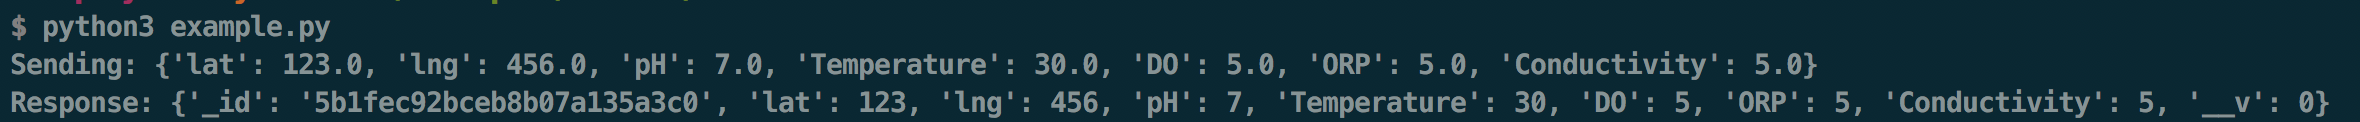
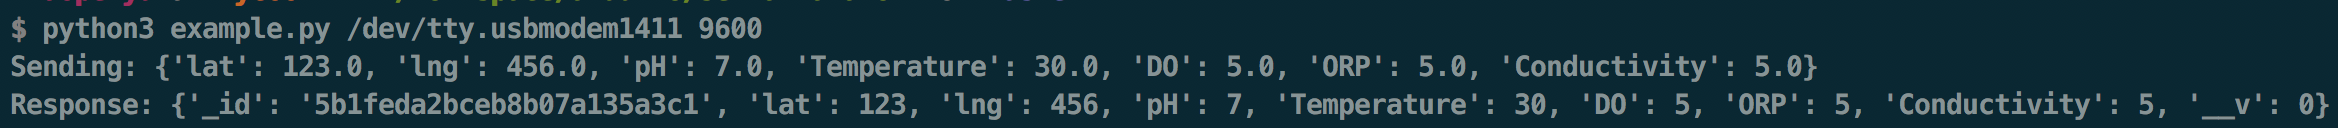
Accept ports & baudrate as arguments

diff --git a/SerialDataToDB/example.py b/SerialDataToDB/example.py
@@ -1,9 +1,10 @@
+import sys
 import requests
 import serial
 
 
-SERIAL_PORT = '/dev/tty.usbmodem1411'
-SERIAL_RATE = 9600
+SERIAL_PORT = sys.argv[1] 
+SERIAL_RATE = sys.argv[2]
 DB_URL = 'http://ec2-18-205-17-12.compute-1.amazonaws.com:3000/dbhandler/data'
 
 
